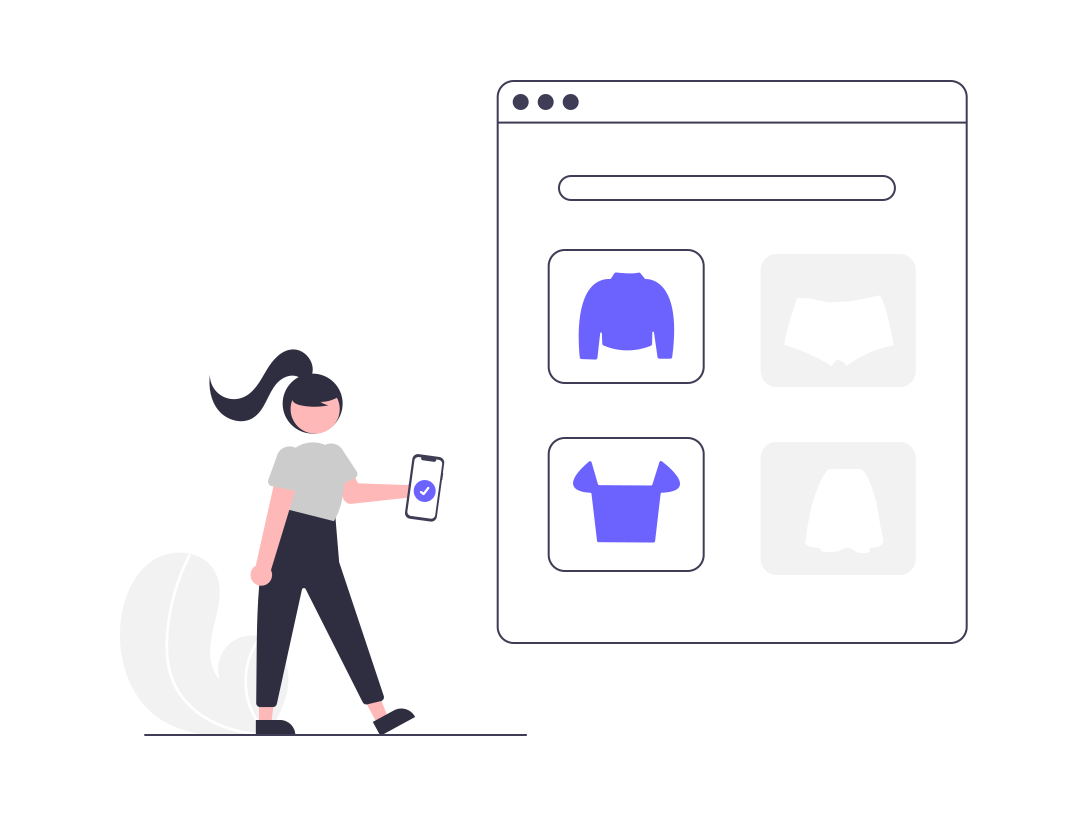
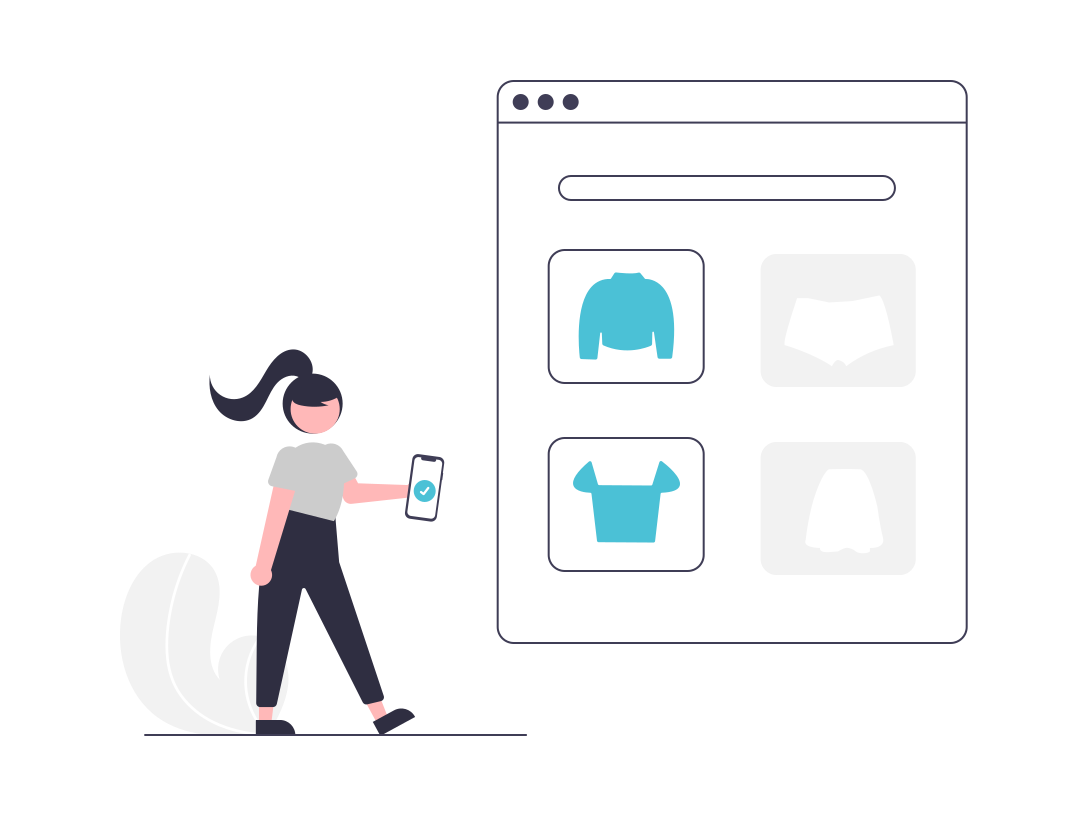
added empty cart message

Changed region(s): [[0.5312, 0.5515, 0.625, 0.674], [0.5312, 0.337, 0.625, 0.4596], [0.375, 0.5821, 0.4062, 0.6127]]

diff --git a/client/src/App.css b/client/src/App.css
@@ -13,6 +13,7 @@ body {
   min-height: 90vh;
   background-color: white;
   padding-top: 10vh;
+  font-family: 'Heebo', sans-serif;
 }
 
 header {
@@ -22,6 +23,7 @@ header {
   height: 10vh;
   top: 0;
   left: 0;
+  font-family: 'Heebo', sans-serif;
 }
 
 h1 {
@@ -103,7 +105,7 @@ footer {
 
 .welcome-submit {
   border: none;
-  background-color: rgb(104, 104, 255);
+  background-color: rgb(75, 193, 214);
   color: white;
   border-radius: 5px;
   padding: 0.5em;
@@ -112,7 +114,7 @@ footer {
 }
 
 .welcome-submit:hover {
-  background-color: rgb(69, 69, 248);
+  background-color: rgb(89, 219, 241);
 }
 
 .username-field {
@@ -149,6 +151,10 @@ footer {
   flex-direction: row-reverse;
   align-items: center;
   justify-content: right;
+}
+
+.welcome-text {
+  font-size: 2.4vw;
 }
 
 /* Buy Page */
@@ -213,7 +219,7 @@ footer {
   display: flex;
   flex-wrap: wrap;
   padding: 0 10vw;
-  min-height: 80vh;
+  min-height: 90vh;
 }
 
 .new-listing-form {
@@ -232,7 +238,7 @@ footer {
 }
 
 .listing-submit {
-  background-color: rgb(104, 104, 255);
+  background-color: rgb(75, 193, 214);
   color: white;
   width: 6em;
   border-radius: 5px;
@@ -240,7 +246,7 @@ footer {
 }
 
 .listing-submit:hover {
-  background-color: rgb(69, 69, 248);
+  background-color: rgb(89, 219, 241);
 }
 
 select {
@@ -274,6 +280,7 @@ select {
 
 .cart-price {
   display: inline;
+  font-family: 'Montserrat', sans-serif;
 }
 
 .price-button-container {
@@ -293,7 +300,7 @@ select {
 }
 
 .checkout {
-  background-color: rgb(104, 104, 255);
+  background-color: rgb(75, 193, 214);
   color: white;
   border: none;
   outline: none;
@@ -304,7 +311,7 @@ select {
 }
 
 .checkout:hover {
-  background-color: rgb(69, 69, 248);
+  background-color: rgb(89, 219, 241);
 }
 
 /* Thumbnails */
@@ -371,6 +378,8 @@ select {
   bottom: 0;
   right: 1vw;
   margin: 0;
+  color: #dd6031;
+  font-family: 'Montserrat', sans-serif;
 }
 
 .thumbnail-title {
@@ -402,7 +411,7 @@ select {
 .cart-button {
   width: 6vw;
   align-self: center;
-  background-color: rgb(104, 104, 255);
+  background-color: rgb(75, 193, 214);
   border: none;
   color: white;
   border-radius: 5px;
@@ -412,5 +421,5 @@ select {
 }
 
 .cart-button:hover {
-  background-color: rgb(69, 69, 248);
+  background-color: rgb(89, 219, 241);
 }

diff --git a/client/src/pages/ItemDetails.js b/client/src/pages/ItemDetails.js
@@ -1,6 +1,7 @@
 import React, { Component } from 'react'
 import { BASE_URL } from '../globals'
 import axios from 'axios'
+import { Redirect } from 'react-router-dom'
 
 export default class ItemDetails extends Component {
   constructor() {
@@ -13,7 +14,8 @@ export default class ItemDetails extends Component {
       price: 0,
       title: '',
       seller_id: '',
-      vendor: {}
+      vendor: {},
+      redirect: false
     }
   }
   componentDidMount() {
@@ -24,25 +26,17 @@ export default class ItemDetails extends Component {
     const response = await axios.get(
       `${BASE_URL}/listings/${this.props.selectedListing}`
     )
-    const {
-      category,
-      condition,
-      description,
-      photo,
-      price,
-      title,
-      seller_id
-    } = response.data.listing
-
-    this.setState({
-      category: category,
-      condition: condition,
-      description: description,
-      photo: photo,
-      price: price,
-      title: title,
-      seller_id: seller_id
-    })
+    response.data.listing
+      ? this.setState({
+          category: response.data.listing.category,
+          condition: response.data.listing.condition,
+          description: response.data.listing.description,
+          photo: response.data.listing.photo,
+          price: response.data.listing.price,
+          title: response.data.listing.title,
+          seller_id: response.data.listing.seller_id
+        })
+      : this.setState({ redirect: true })
   }
 
   handleClick = () => {
@@ -57,6 +51,9 @@ export default class ItemDetails extends Component {
   }
 
   render() {
+    if (this.state.redirect) {
+      return <Redirect to="/" />
+    }
     return (
       <div className="item-details-page">
         <img

diff --git a/client/src/pages/Cart.js b/client/src/pages/Cart.js
@@ -2,22 +2,35 @@ import React, { Component } from 'react'
 import CartItem from '../components/CartItem'
 
 export default class Cart extends Component {
+  directToBuyPage = () => {
+    this.props.history.push('/buy')
+  }
   render() {
     console.log(this.props.addedToCart)
     return (
       <div className="cart">
         <h3>Your Cart:</h3>
         <div className="product-container">
-          {this.props.addedToCart.map((item) => (
-            <CartItem
-              price={item.price}
-              title={item.title}
-              id={item._id}
-              removeFromCart={this.props.removeFromCart}
-            />
-          ))}
+          {this.props.addedToCart.length ? (
+            this.props.addedToCart.map((item) => (
+              <CartItem
+                price={item.price}
+                title={item.title}
+                id={item._id}
+                removeFromCart={this.props.removeFromCart}
+              />
+            ))
+          ) : (
+            <div>Your cart is empty</div>
+          )}
         </div>
-        <button className="checkout">Checkout</button>
+        {this.props.addedToCart.length ? (
+          <button className="checkout">Checkout</button>
+        ) : (
+          <button className="checkout" onClick={this.directToBuyPage}>
+            Shop now
+          </button>
+        )}
       </div>
     )
   }

diff --git a/client/src/App.js b/client/src/App.js
@@ -106,8 +106,16 @@ export default class App extends Component {
   render() {
     return (
       <div className="app">
+        <link
+          href="https://fonts.googleapis.com/css2?family=Montserrat:wght@500&display=swap"
+          rel="stylesheet"
+        ></link>
+        <link
+          href="https://fonts.googleapis.com/css2?family=Heebo:wght@300&display=swap"
+          rel="stylesheet"
+        ></link>
         <header>
-          <h1>loft</h1>
+          <h1>barter</h1>
           <div className="menu">
             <div className="nav-container">
               <NavLink to="/buy" className="nav">
@@ -171,10 +179,11 @@ export default class App extends Component {
           />
           <Route
             path="/cart"
-            render={() => (
+            render={(reactProps) => (
               <Cart
                 addedToCart={this.state.addedToCart}
                 removeFromCart={this.removeFromCart}
+                {...reactProps}
               />
             )}
           />

diff --git a/client/src/pages/Welcome.js b/client/src/pages/Welcome.js
@@ -31,19 +31,15 @@ export default class Welcome extends Component {
               onChange={this.props.handleUsername}
               className="username-field"
             />
-            <input
-              type="submit"
-              value="Let's Trade"
-              className="welcome-submit"
-            />
+            <input type="submit" value="Login" className="welcome-submit" />
           </form>
           <div className="marketing">
             <img src={shoppingImage} alt="shop" className="shopping-image" />
             <div className="first">
-              <h3>Find what you need</h3>
+              <h3 className="welcome-text">Find what you need</h3>
             </div>
             <div className="second">
-              <h3>List what you don't</h3>
+              <h3 className="welcome-text">List what you don't</h3>
             </div>
             <img src={sellingImage} alt="sell" className="selling-image" />
           </div>

diff --git a/client/src/pages/Buy.js b/client/src/pages/Buy.js
@@ -45,7 +45,7 @@ export default class Buy extends Component {
     return (
       <div className="buy-page">
         <h3 className="buy-title">Find What You Need:</h3>
-        <h4 className="filter-spec">Filter by: Category</h4>
+        <h4 className="filter-spec">Category</h4>
         <form className="filter">
           <select onChange={this.changeCatFilter}>
             <option value="all">All</option>

diff --git a/README.md b/README.md
@@ -1,4 +1,4 @@
-# Barter
+# attic
 
 ## Date: 3/5/21
 
@@ -76,3 +76,4 @@ Barter is a community-focused ecommerce app. It allows users to both list items 
 * [npm](https://www.npmjs.com/package/react-currency-input-field)
 * [Pexels](https://www.pexels.com/)
 * [CSS-Tricks](https://css-tricks.com/)
+* [Undraw](https://undraw.co/)
